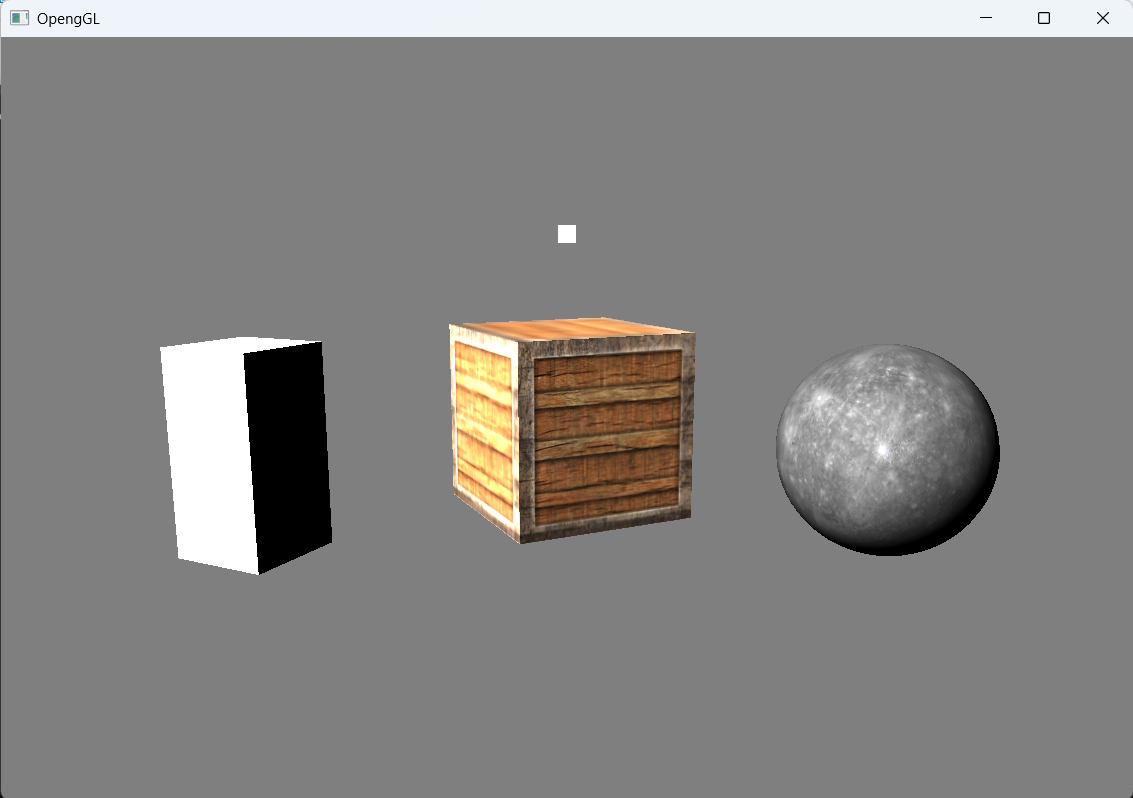
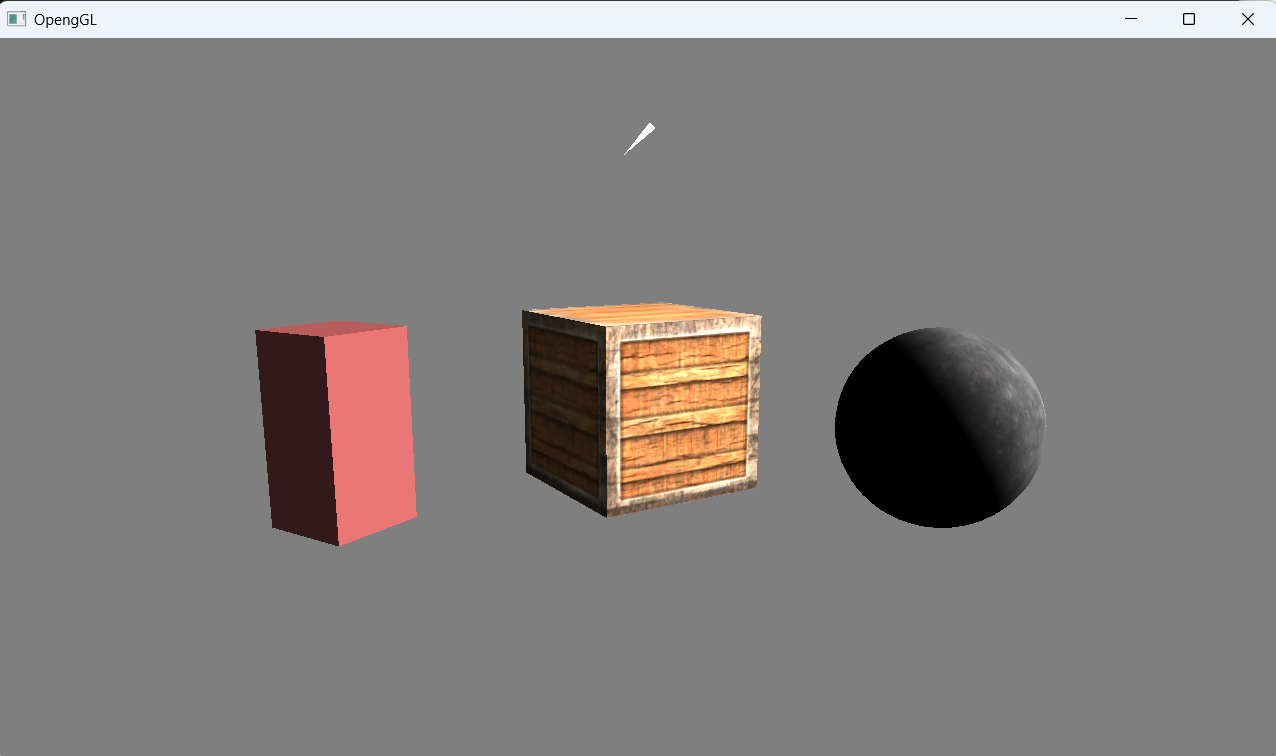
기본 셰이더 수정

diff --git a/src/core/app.cpp b/src/core/app.cpp
@@ -14,9 +14,11 @@ int main()
     renderer = std::make_unique<OpenGLRenderer>();
     if(window.Init())
     {
-        //source
+        //source_mesh
         std::shared_ptr<IMesh> cubeMesh =std::make_shared<CubeMesh>();
         std::shared_ptr<IMesh> sphereMesh = std::make_shared<ShpereMesh>(32,32,1.0f);
+        std::shared_ptr<IMesh> coneMesh = std::make_shared<ConeMesh>(32,1.0f,1.0f);
+        //source_shader
         std::string vertexShaderPath = "/shader/standard.vert";
         std::string fragShaderPath = "/shader/standard.frag";
         std::string diffuseTexturePath = "/assets/container2.png";
@@ -35,11 +37,14 @@ int main()
         //light material
         std::shared_ptr<Material> lightMaterial = std::make_shared<Material>(shader);
         //material parameter
+        standardMaterial->SetBaseColor(glm::vec3(0.2f, 0.1f, 0.1f));
+        standardMaterial->SetAmbientColor(glm::vec3(1.0f));
         material->SetDiffuseTexture(true);
+        material->SetAmbientColor(glm::vec3(0.5f));
         moonMaterial->SetDiffuseTexture(true);
-        moonMaterial->SetBaseColor(glm::vec3(0.3f,0.3f,0.3f));
-        lightMaterial->SetBaseColor(glm::vec3(1.0f, 1.0f, 1.0f));
-        lightMaterial->SetAmbientColor(glm::vec3(1.0f, 1.0f, 1.0f));
+        moonMaterial->SetBaseColor(glm::vec3(0.3f));
+        lightMaterial->SetBaseColor(glm::vec3(1.0f));
+        lightMaterial->SetAmbientColor(glm::vec3( 1.0f));
         //camera
         auto cameraActor = world.CreateActor();
         cameraActor->name = "Camera";
@@ -49,12 +54,14 @@ int main()
         //light
         auto lightActor = world.CreateActor();
         lightActor->name = "Light";
-        lightActor->AddComponent<MeshComponent>(cubeMesh);
-        lightActor->GetComponent<MeshComponent>()->SetScale(glm::vec3(0.1f, 0.1f, 0.1f));
-        lightActor->GetComponent<MeshComponent>()->SetPosition(glm::vec3(0.0f, 2.0f, 1.0f));
+        glm::vec3 rot = {0.0f, 0.0f, 45.0f};
+        lightActor->AddComponent<MeshComponent>(coneMesh);
+        lightActor->GetComponent<MeshComponent>()->SetScale(glm::vec3(0.05f, -0.5f, 0.05f));
+        lightActor->GetComponent<MeshComponent>()->SetPosition(glm::vec3(0.0f, 3.0f, 1.0f));
+        lightActor->GetComponent<MeshComponent>()->SetRotation(rot);
         lightActor->GetComponent<MeshComponent>()->SetMaterial(lightMaterial);
         lightActor->AddComponent<LightComponent>();
-        lightActor->GetComponent<LightComponent>()->SetPosition(glm::vec3(0.0f, 2.0f, 1.0f));
+        lightActor->GetComponent<LightComponent>()->SetRotation(rot);
         LightComponent* lightComponent = lightActor->GetComponent<LightComponent>();
         //mesh
         auto actor = world.CreateActor();

diff --git a/src/renderer/mesh.hpp b/src/renderer/mesh.hpp
@@ -163,12 +163,9 @@ class ShpereMesh:public Mesh
                 {
                     int current = lat * (slices + 1) + lon;
                     int next = current + slices + 1;
-
-                    // 삼각형 두 개로 사각형을 구성
                     indices.push_back(current);
                     indices.push_back(current + 1);
                     indices.push_back(next);
-
                     indices.push_back(current + 1);
                     indices.push_back(next + 1);
                     indices.push_back(next);
@@ -180,7 +177,56 @@ class ShpereMesh:public Mesh
 
 class ConeMesh:public Mesh
 {
+    public:
+        ConeMesh(int slices, float radius, float height):Mesh(CreateVertices(slices, radius, height),
+                                                              CreateIndices(slices)){}
+    private:
+        static std::vector<Vertex> CreateVertices(int slices, float radius, float height)
+        {
+            std::vector<Vertex> vertices;
+            constexpr float PI = 3.14159265359f;
+            float halfHeight = height * 0.5f;
+            glm::vec3 apex(0.0f, halfHeight, 0.0f);
+            glm::vec3 baseCenter(0.0f, -halfHeight, 0.0f);
+            for (int i = 0; i <= slices; ++i)
+            {
+                float theta = (2.0f * PI * i) / slices;
+                float x = radius * cos(theta);
+                float z = radius * sin(theta);
+                glm::vec3 pos(x, -halfHeight, z);
+                glm::vec3 normal = glm::normalize(glm::vec3(x, radius / height, z));
+                glm::vec2 uv(static_cast<float>(i) / slices, 1.0f);
 
+                vertices.push_back({pos, normal, uv});
+            }
+            vertices.push_back({apex, glm::vec3(0, 1, 0), glm::vec2(0.5f, 0)});
+            vertices.push_back({baseCenter, glm::vec3(0, -1, 0), glm::vec2(0.5f, 0.5f)});
+
+            return vertices;        
+        }
+        static std::vector<unsigned int> CreateIndices(int slices)
+        {
+            std::vector<unsigned int> indices;
+
+            int apexIndex = slices + 1;
+            int baseCenterIndex = apexIndex + 1;
+            for (int i = 0; i < slices; ++i)
+            {
+                int next = (i + 1) % slices;
+                indices.push_back(apexIndex);
+                indices.push_back(i);
+                indices.push_back(next);
+            }
+            for (int i = 0; i < slices; ++i)
+            {
+                int next = (i + 1) % slices;
+                indices.push_back(baseCenterIndex);
+                indices.push_back(next);
+                indices.push_back(i);
+            }
+
+            return indices;
+        }
 };
 
 class CylinderMesh:public Mesh

diff --git a/src/component/component.cpp b/src/component/component.cpp
@@ -1,5 +1,6 @@
 #include "component.hpp"
 #include <iostream>
+
 glm::mat4 SceneComponent::GetMatrix() const
 {
     glm::mat4 model(1.0f);
@@ -21,6 +22,18 @@ void SceneComponent::ToEuler()
     transform.rotation = glm::degrees(glm::eulerAngles(glm::normalize(quaternion)));
 }
 
+glm::vec3 SceneComponent::GetDirection() const
+{
+    glm::mat4 rotX = glm::rotate(glm::mat4(1.0f), transform.rotation.y, glm::vec3(0.0f, 1.0f, 0.0f));
+    glm::mat4 rotY = glm::rotate(glm::mat4(1.0f), transform.rotation.x, glm::vec3(1.0f, 0.0f, 0.0f));
+    glm::mat4 rotZ = glm::rotate(glm::mat4(1.0f), transform.rotation.z, glm::vec3(0.0f, 0.0f, 1.0f));
+
+    glm::mat4 fRot = rotZ * rotX * rotY;
+    glm::vec3 dir = glm::vec3(fRot * glm::vec4(0.0f, 1.0f, 0.0f, 0.0f));
+
+    return dir;
+}
+
 void MeshComponent::Render(CameraComponent* currentCamera, std::vector<LightComponent*> lights)
 {
     if(auto m = mesh.lock())
@@ -36,6 +49,7 @@ void MeshComponent::Render(CameraComponent* currentCamera, std::vector<LightComp
             for(auto& light:lights)
             {
                 mat->SetLightPosition(light->GetPosition());
+                mat->SetLightDirectional(light->GetDirection());
                 mat->SetLightIntensity(light->GetIntensity());
                 mat->SetLightColor(light->GetColor());
             }

diff --git a/src/component/component.hpp b/src/component/component.hpp
@@ -36,6 +36,7 @@ class SceneComponent:public IComponent
         glm::vec3 GetRotation() const{return transform.rotation;}
         glm::vec3 GetScale() const{return transform.scale;}
         glm::mat4 GetMatrix() const;
+        glm::vec3 GetDirection() const;
     protected:
         Transform transform;
         void ToQuaternion();

diff --git a/src/core/window.hpp b/src/core/window.hpp
@@ -5,7 +5,7 @@
 class Window
 {
     public:
-        Window(int w = 1920, int h = 1080):width(w), height(h){}
+        Window(int w = 1280, int h = 720):width(w), height(h){}
         ~Window();
         bool Init();
         bool ShouldClose();
